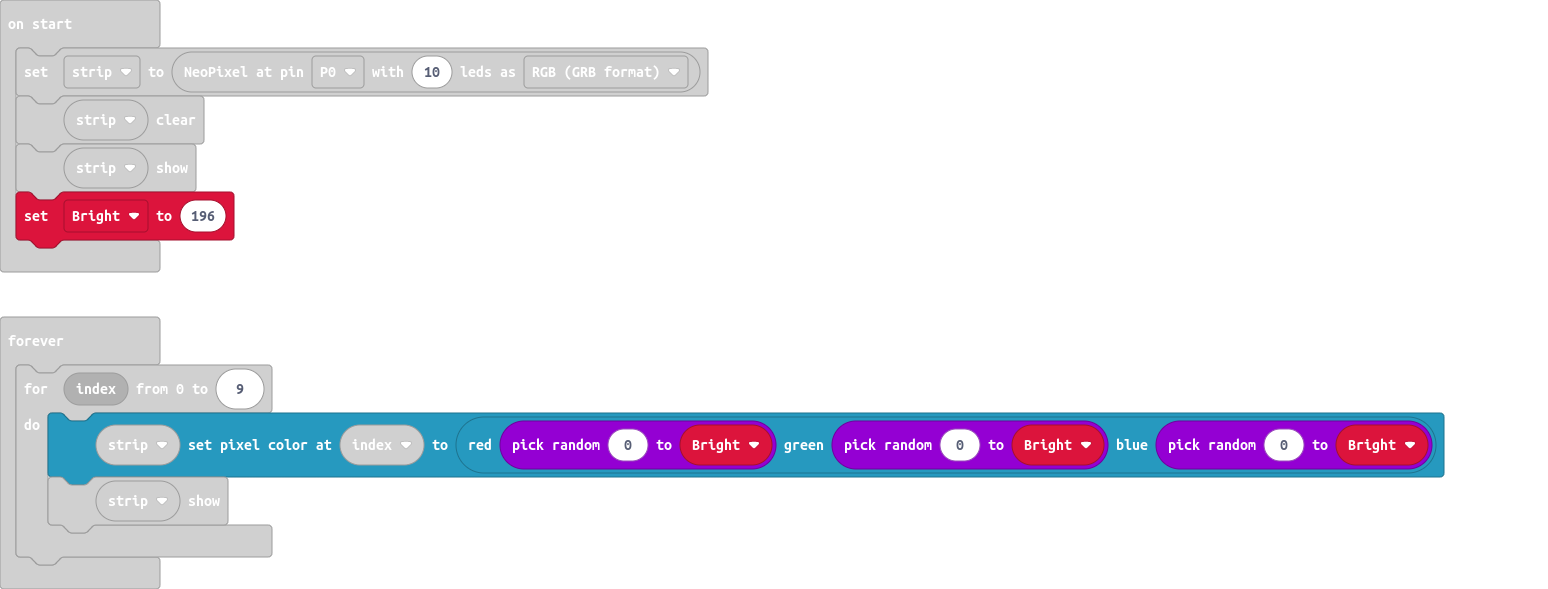
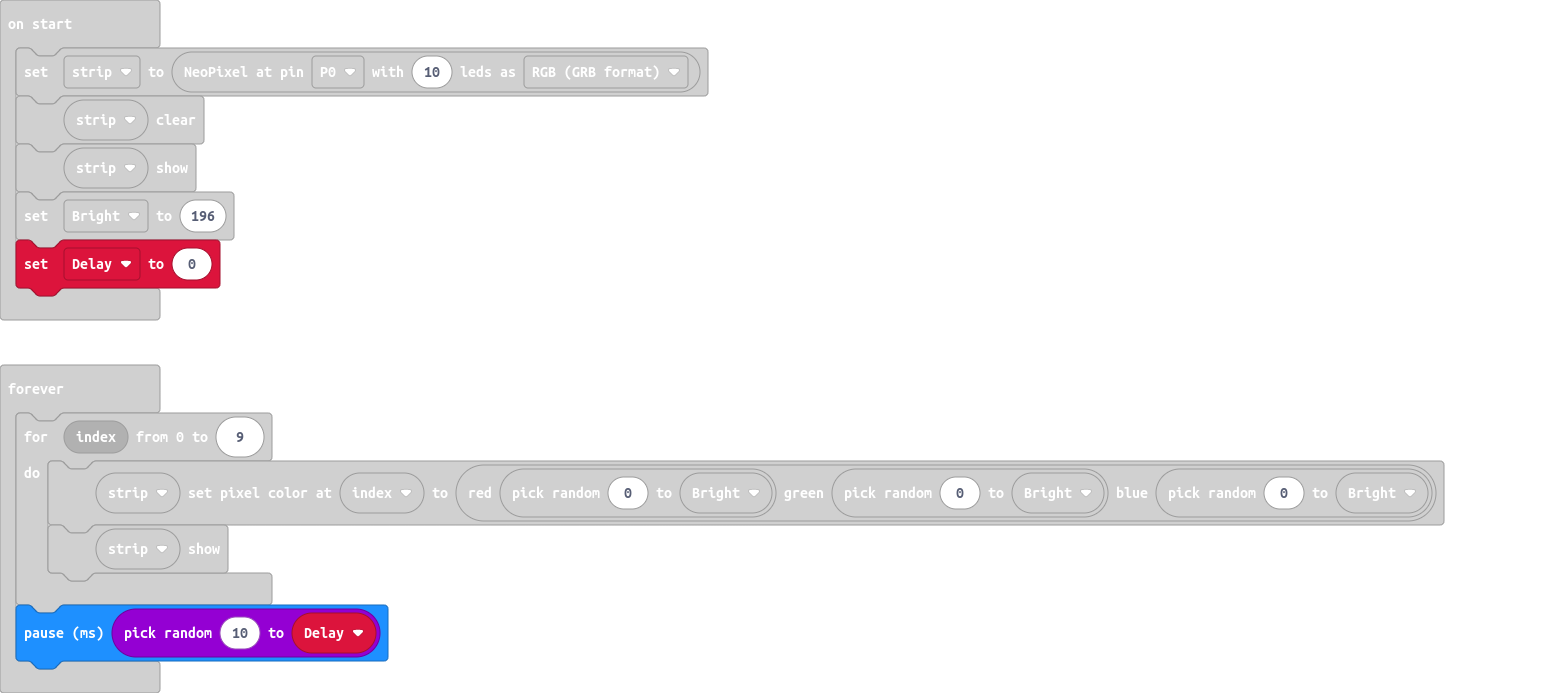
Update main.blocks, main.ts

Changed region(s): [[0.0, 0.5195, 0.9612, 0.9779], [0.0, 0.0306, 0.4651, 0.4278]]

diff --git a/main.ts b/main.ts
@@ -2,9 +2,11 @@ let strip = neopixel.create(DigitalPin.P0, 10, NeoPixelMode.RGB)
 strip.clear()
 strip.show()
 let Bright = 196
+let Delay = 0
 basic.forever(function () {
     for (let index = 0; index <= 9; index++) {
         strip.setPixelColor(index, neopixel.rgb(randint(0, Bright), randint(0, Bright), randint(0, Bright)))
         strip.show()
     }
+    basic.pause(randint(10, Delay))
 })
